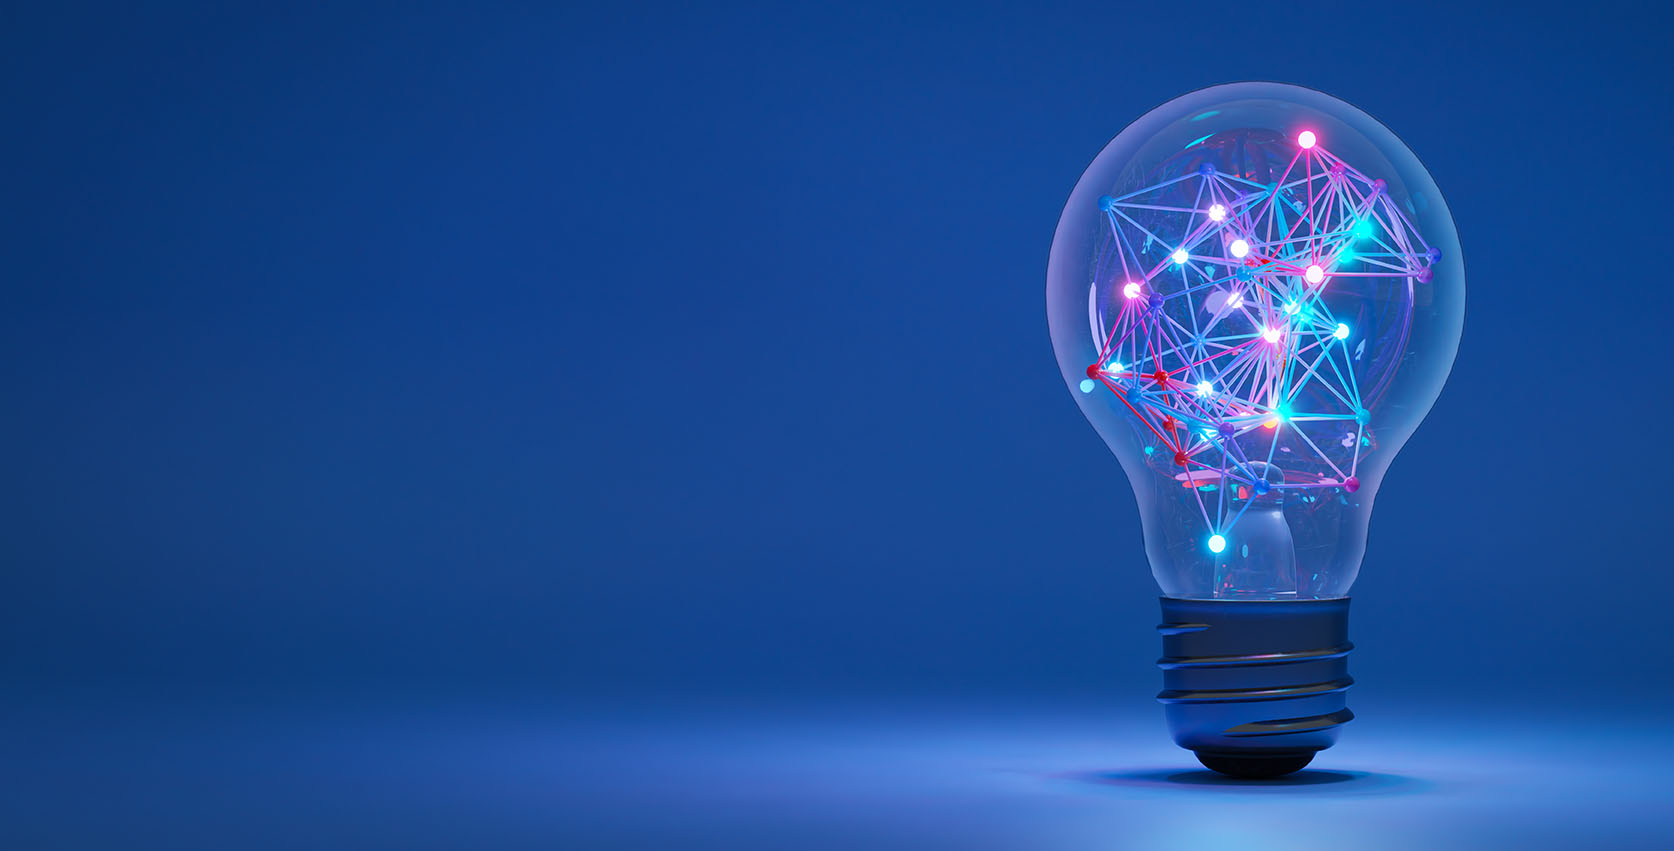
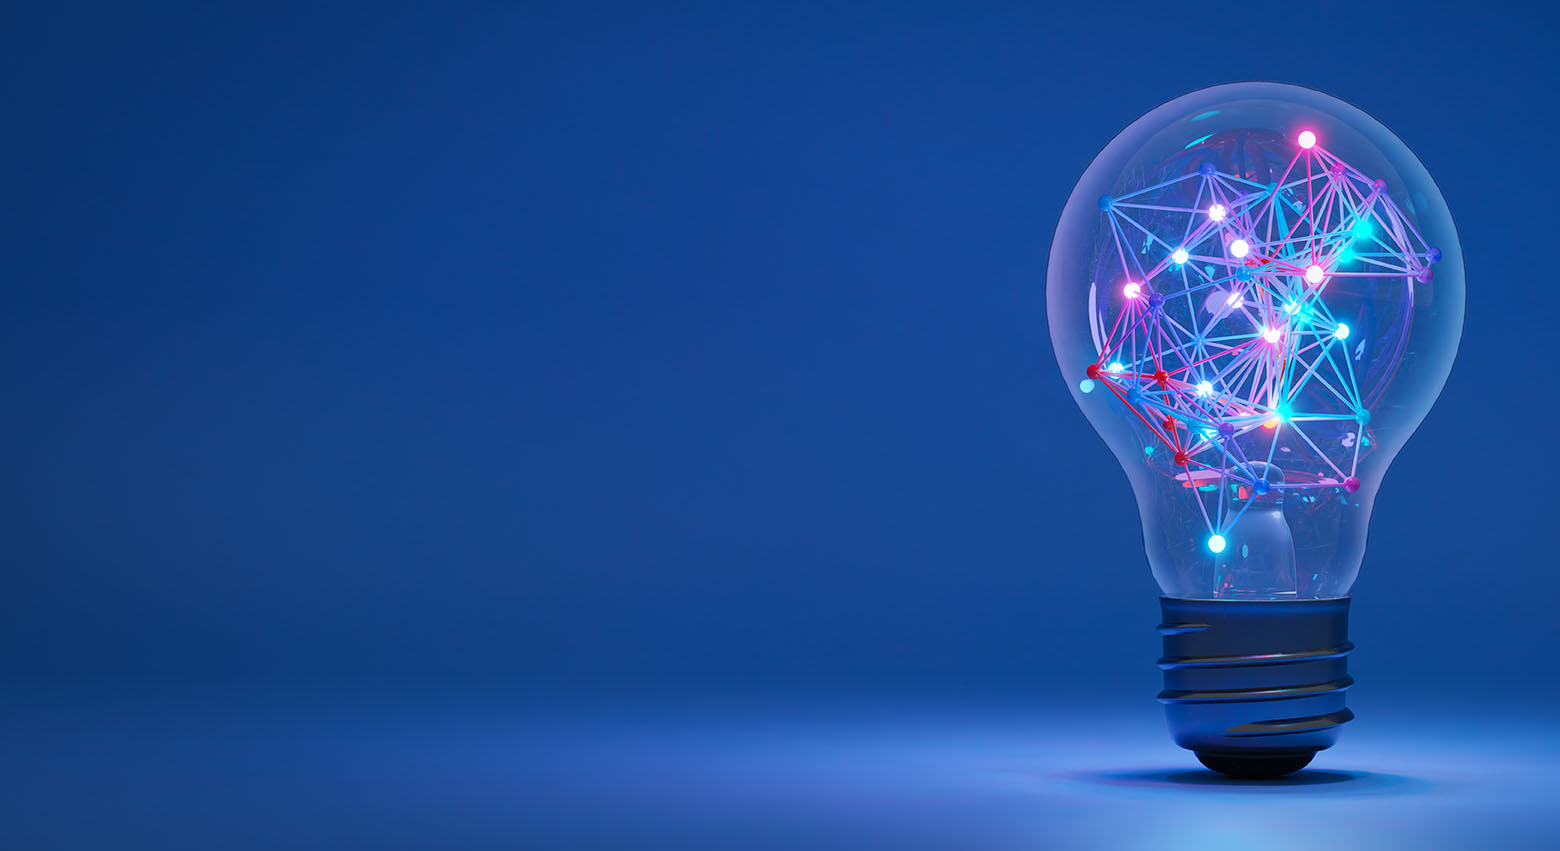
feat: add initial deisgn for hero section

Changed region(s): [[0.6154, 0.0917, 1.0, 1.0]]

diff --git a/src/components/pages/Home.tsx b/src/components/pages/Home.tsx
@@ -5,22 +5,107 @@ export const Home = () => {
   return (
     <StyledContainer>
       <StyledImage src={heroImage} alt="Albert Einstien" />
+
+      <StyledTextContainer>
+        <StyledTitle>Welcome to ID:B</StyledTitle>
+        <StyledText>
+          The ultimate idea board application, designed to spark creativity and
+          innovation. Whether you&#39;re brainstorming your next big project or
+          organizing your thoughts, ID:B offers a seamless and intuitive
+          platform to capture, refine, and execute your ideas.
+        </StyledText>
+      </StyledTextContainer>
     </StyledContainer>
   )
 }
 
 const StyledContainer = styled.section`
-  width: 100%;
-  max-height: 600px;
-  overflow: hidden;
-  border: 1px solid green;
   position: relative;
   display: flex;
-  justify-content: center;
   align-items: center;
+  justify-content: center;
+  width: 100%;
+  height: 300px;
+  overflow: hidden;
+
+  @media (min-width: ${({ theme }) => theme.breakpoints.large}) {
+    position: relative;
+    justify-content: flex-start;
+    width: 100%;
+    height: 600px;
+    overflow: hidden;
+  }
 `
 
 const StyledImage = styled.img`
+  position: absolute;
   width: 100%;
   height: 100%;
+  min-height: 600px;
+  object-fit: cover;
+
+  @media (min-width: ${({ theme }) => theme.breakpoints.large}) {
+    position: absolute;
+    width: 100%;
+    height: 100%;
+    min-height: 600px;
+    object-fit: cover;
+  }
 `
+
+const StyledTextContainer = styled.div`
+  position: relative;
+  display: flex;
+  align-items: center;
+  justify-content: center;
+  flex-direction: column;
+  gap: 15px;
+  width: 100%;
+  height: 100%;
+  color: ${({ theme }) => theme.colors.white};
+  text-align: center;
+
+  @media (min-width: ${({ theme }) => theme.breakpoints.large}) {
+    position: relative;
+    display: flex;
+    align-items: flex-start;
+    justify-content: center;
+    flex-direction: column;
+    gap: 15px;
+    left: 40px;
+    width: 55%;
+    height: 100%;
+    color: ${({ theme }) => theme.colors.white};
+    text-align: center;
+  }
+`
+
+const StyledTitle = styled.p`
+  width: 95%;
+  font-size: 30px;
+  font-family: 'Roboto_600Bold';
+  color: ${({ theme }) => theme.colors.tertiaryLightBlue};
+  text-align: center;
+
+  @media (min-width: ${({ theme }) => theme.breakpoints.large}) {
+    width: 100%;
+    font-size: 40px;
+    font-family: 'Roboto_600Bold';
+    color: ${({ theme }) => theme.colors.tertiaryLightBlue};
+    text-align: left;
+  }
+`
+const StyledText = styled.p`
+  width: 90%;
+  font-size: 15px;
+  color: ${({ theme }) => theme.colors.secondaryWhite};
+  text-align: center;
+
+  @media (min-width: ${({ theme }) => theme.breakpoints.large}) {
+    width: 98%;
+    font-size: 20px;
+    color: ${({ theme }) => theme.colors.secondaryWhite};
+    text-align: left;
+  }
+`
+

diff --git a/src/theme/theme.ts b/src/theme/theme.ts
@@ -2,6 +2,7 @@ export const theme = {
   colors: {
     primaryBlue: '#356597',
     secondaryWhite: '#ffffff',
+    tertiaryLightBlue: '#7ba4c9',
   },
   breakpoints: {
     large: '768px',
